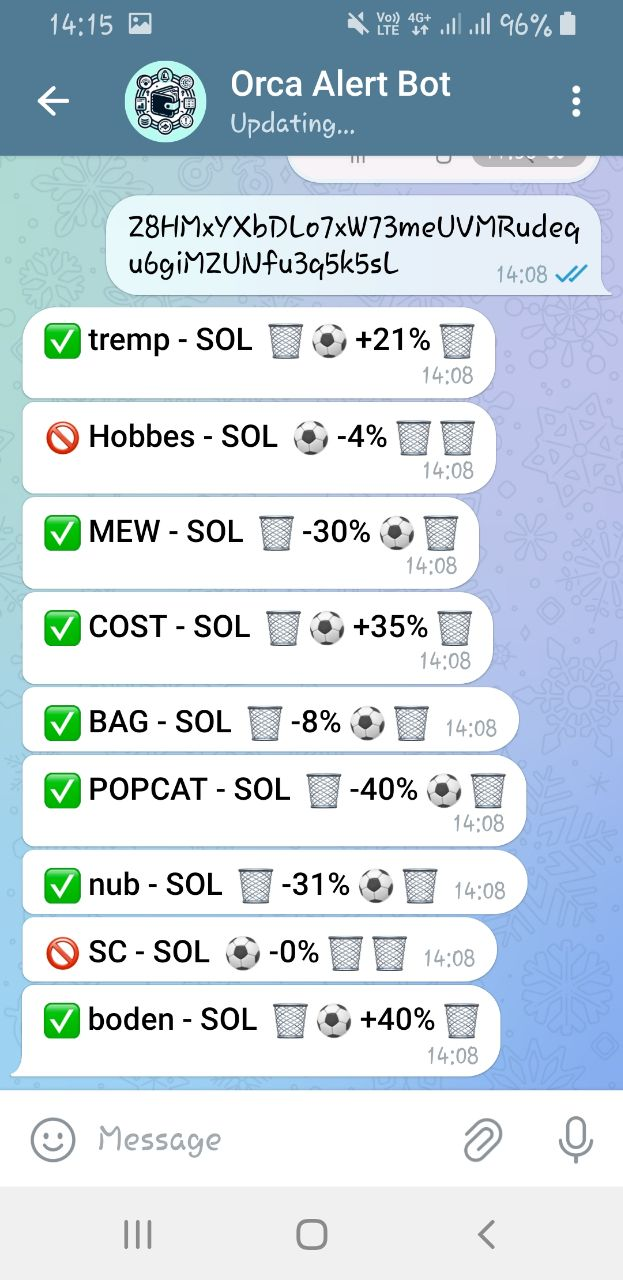
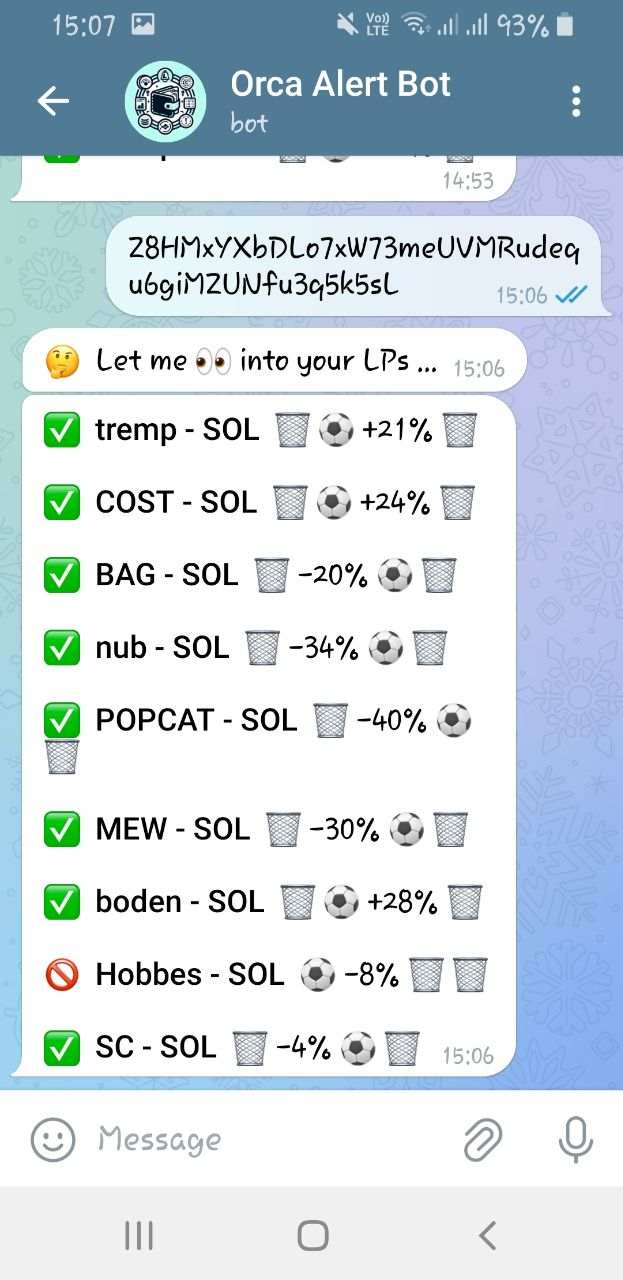
update demo photo

diff --git a/app.js b/app.js
@@ -16,7 +16,7 @@ bot.on('message', async (ctx) => {
     try {
         const orca = await getContext();
         const position_keys = await listPositionsByOwner(orca, wallet_address);
-        await ctx.reply("🤔  Let me 👀 into your LP positions ...");
+        await ctx.reply("🤔  Let me 👀 into your LPs ...");
         const lines = [];
         for (const key of position_keys) {
             const lp = await getPositionDetails(orca, key);
